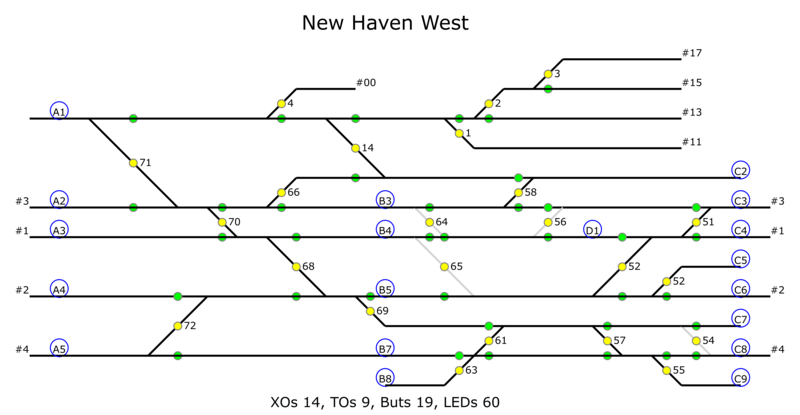
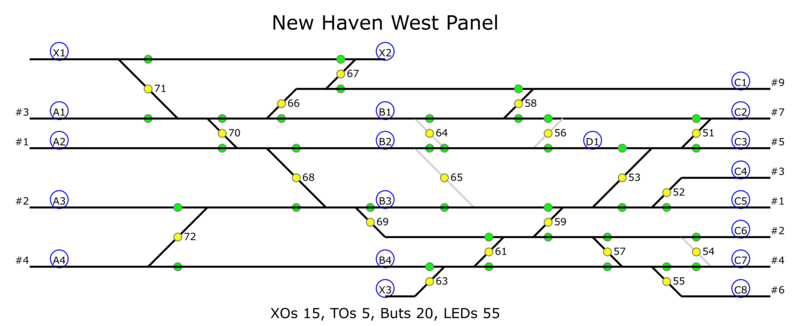
updated diagram, combined turnouts & separate wiring tables

Changed region(s): [[0.0, 0.1227, 1.0, 0.9816], [0.3438, 0.0307, 0.625, 0.092], [0.0, 0.6748, 0.0312, 0.7055]]

diff --git a/ReadMe.md b/ReadMe.md
@@ -15,22 +15,52 @@ using LM324 op-amps and as 8 GPIOs.
 <img width=100% src=west.png>
 
 <!-- -----------------------------------------------  ---------------------- -->
+<h4> PCB Wire Connections </h4>
 
-<p>
-<table border=1 cellspacing=0 width=600 align=right>
- <tr> <th colspan=7> New Haven West Interlock
- <tr> <th> Bit <th colspan=2> Chip-0 <th colspan=2> Chip-1 <th colspan=2> Chip-2
- <tr> <th>  0 <td align=center>  sw1 <td align=center> Ba1 <td align=center>  sw9 <td align=center> Bc1 <td align=center> sw17 <td align=center> Bc9
- <tr> <th>  1 <td align=center>  sw2 <td align=center> Ba2 <td align=center> sw10 <td align=center> Bc2 <td align=center> sw18 <td align=center> Bx1
- <tr> <th>  2 <td align=center>  sw3 <td align=center> Ba3 <td align=center> sw11 <td align=center> Bc3 <td align=center> sw19 <td align=center> Bx2
- <tr> <th>  3 <td align=center>  sw4 <td align=center> Ba4 <td align=center> sw12 <td align=center> Bc4 <td align=center> sw20 <td align=center>    
- <tr> <th>  4 <td align=center>  sw5 <td align=center> Ba5 <td align=center> sw13 <td align=center> Bc5 <td align=center> sw21 <td align=center>    
- <tr> <th>  5 <td align=center>  sw6 <td align=center> Ba6 <td align=center> sw14 <td align=center> Bc6 <td align=center>      <td align=center>    
- <tr> <th>  6 <td align=center>  sw7 <td align=center>     <td align=center> sw15 <td align=center> Bc7 <td align=center>      <td align=center>    
- <tr> <th>  7 <td align=center>  sw8 <td align=center>     <td align=center> sw16 <td align=center> Bc8 <td align=center>      <td align=center>    
+<table border=1 cellspacing=0 align=right>
+ <tr> <th colspan=2> PCB 3
+ <tr> <th> Mach <th> Button
+ <tr> <td align=center>  69 <td align=center>  X1
+ <tr> <td align=center>  70 <td align=center>  X2
+ <tr> <td align=center>  71 <td align=center>  X3
+ <tr> <td align=center>  72 <td align=center>
+ <tr> <td align=center> &nbsp; <td align=center>
+ <tr> <td align=center> &nbsp; <td align=center>
+ <tr> <td align=center> &nbsp; <td align=center>
+ <tr> <td align=center> &nbsp; <td align=center>
 </table>
 
+<table border=1 cellspacing=0 align=right>
+ <tr> <th colspan=2> PCB 2
+ <tr> <th> Mach <th> Button
+ <tr> <td align=center>  59 <td align=center>  C1
+ <tr> <td align=center>  61 <td align=center>  C2
+ <tr> <td align=center>  63 <td align=center>  C3
+ <tr> <td align=center>  64 <td align=center>  C4
+ <tr> <td align=center>  65 <td align=center>  C5
+ <tr> <td align=center>  66 <td align=center>  C6
+ <tr> <td align=center>  67 <td align=center>  C7
+ <tr> <td align=center>  68 <td align=center>  C8
+</table>
 
+<table border=1 cellspacing=0 align=right>
+ <tr> <th colspan=2> PCB 1
+ <tr> <th> Mach <th> Button
+ <tr> <td align=center>  51 <td align=center>  A1
+ <tr> <td align=center>  52 <td align=center>  A2
+ <tr> <td align=center>  53 <td align=center>  A3
+ <tr> <td align=center>  54 <td align=center>  A4
+
+ <tr> <td align=center>  55 <td align=center>  B1
+ <tr> <td align=center>  56 <td align=center>  B2
+ <tr> <td align=center>  57 <td align=center>  B3
+ <tr> <td align=center>  58 <td align=center>  B4
+</table>
+
+<a href=https://i.imgur.com/RJTQaR7.jpg target="_blank">
+<img src=https://i.imgur.com/RJTQaR7.jpg height=380></a>
+
+<!-- -----------------------------------------------  ---------------------- -->
 <h4> Panel Description  </h4>
 
 <i>westIntLck.cpp</i> contains tables describing the panel:
@@ -73,7 +103,7 @@ There is an entry for each switch machine position.
 <i>s02r</i> is the variable name of the entry used in the <i>routes</i> table.
 The first three fields, <i>2, R, 1</i>,
 include a numeric value for the switch machine,
-a symbol, <i>N/R</i> identifying the postion as normal/reverse and
+a symbol, <i>N/R</i> identifying the position as normal/reverse and
 the bit value, 0/1 for that position.
 The last three fields,
 <i>0, 1, "s02r"</i>, like the button entry
